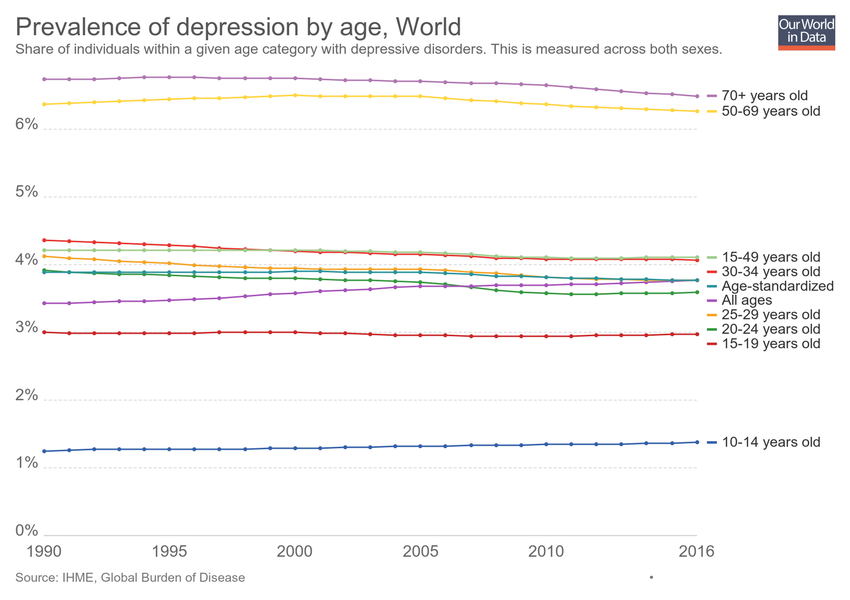
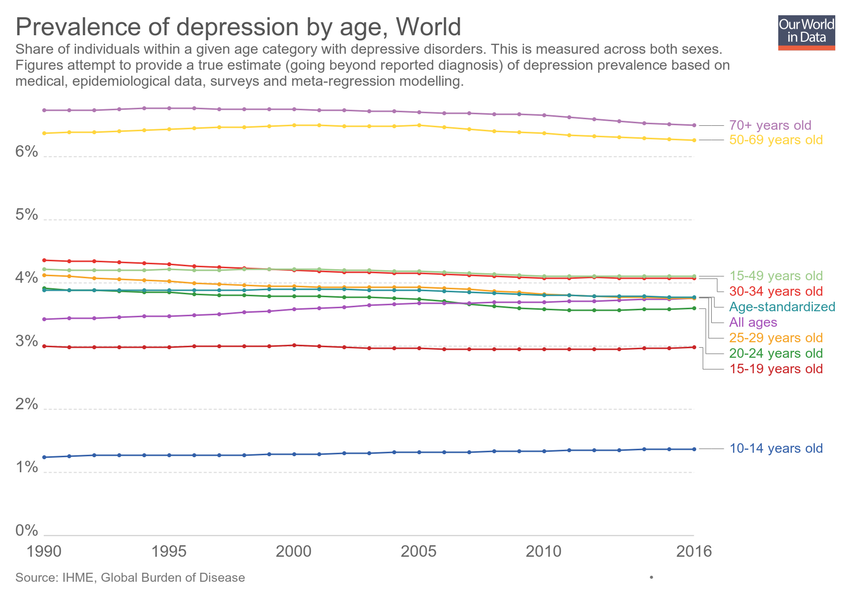
Updating chart rate-of-internationally-observed-elections

diff --git a/grapher/prevalence-of-depression-by-age.html b/grapher/prevalence-of-depression-by-age.html
@@ -1,4 +1,4 @@
-<!doctype html><html><head><meta name="viewport" content="width=device-width, initial-scale=1" /><title>Prevalence of depression by age - Our World in Data</title><meta name="description" content="Share of individuals within a given age category with depressive disorders. This is measured across both sexes." /><link rel="canonical" href="https://ourworldindata.org/grapher/prevalence-of-depression-by-age" /><meta property="fb:app_id" content="1149943818390250" /><meta property="og:url" content="https://ourworldindata.org/grapher/prevalence-of-depression-by-age" /><meta property="og:title" content="Prevalence of depression by age" /><meta property="og:description" content="Share of individuals within a given age category with depressive disorders. This is measured across both sexes." /><meta property="og:image" content="https://ourworldindata.org/grapher/exports/prevalence-of-depression-by-age.png?v=2" /><meta property="og:image:width" content="850" /><meta property="og:image:height" content="600" /><meta property="og:site_name" content="Our World in Data" /><meta name="twitter:card" content="summary_large_image" /><meta name="twitter:site" content="@OurWorldInData" /><meta name="twitter:creator" content="@OurWorldInData" /><meta name="twitter:title" content="Prevalence of depression by age" /><meta name="twitter:description" content="Share of individuals within a given age category with depressive disorders. This is measured across both sexes." /><meta name="twitter:image" content="https://ourworldindata.org/grapher/exports/prevalence-of-depression-by-age.png?v=2" /><style>
+<!doctype html><html><head><meta name="viewport" content="width=device-width, initial-scale=1" /><title>Prevalence of depression by age - Our World in Data</title><meta name="description" content="Share of individuals within a given age category with depressive disorders. This is measured across both sexes. Figures attempt to provide a true estimate (going beyond reported diagnosis) of depression prevalence based on medical, epidemiological data, surveys and meta-regression modelling." /><link rel="canonical" href="https://ourworldindata.org/grapher/prevalence-of-depression-by-age" /><meta property="fb:app_id" content="1149943818390250" /><meta property="og:url" content="https://ourworldindata.org/grapher/prevalence-of-depression-by-age" /><meta property="og:title" content="Prevalence of depression by age" /><meta property="og:description" content="Share of individuals within a given age category with depressive disorders. This is measured across both sexes. Figures attempt to provide a true estimate (going beyond reported diagnosis) of depression prevalence based on medical, epidemiological data, surveys and meta-regression modelling." /><meta property="og:image" content="https://ourworldindata.org/grapher/exports/prevalence-of-depression-by-age.png?v=3" /><meta property="og:image:width" content="850" /><meta property="og:image:height" content="600" /><meta property="og:site_name" content="Our World in Data" /><meta name="twitter:card" content="summary_large_image" /><meta name="twitter:site" content="@OurWorldInData" /><meta name="twitter:creator" content="@OurWorldInData" /><meta name="twitter:title" content="Prevalence of depression by age" /><meta name="twitter:description" content="Share of individuals within a given age category with depressive disorders. This is measured across both sexes. Figures attempt to provide a true estimate (going beyond reported diagnosis) of depression prevalence based on medical, epidemiological data, surveys and meta-regression modelling." /><meta name="twitter:image" content="https://ourworldindata.org/grapher/exports/prevalence-of-depression-by-age.png?v=3" /><style>
         html, body {
             height: 100%;
             margin: 0;
@@ -20,8 +20,8 @@
         }
     </style><noscript><style>
                     figure { display: none !important; }
-                </style></noscript><link rel="stylesheet" href="https://ourworldindata.org/grapher/assets/commons.bundle.ac09ff8f098f0c7be836.css" /><link rel="preload" href="/grapher/data/variables/84233+84215+84260+84296+84251+84224+84242+84287+84302+84278.json?v=2" as="fetch" crossorigin /></head><body class="singleChart"><figure data-grapher-src="/grapher/prevalence-of-depression-by-age"></figure><noscript id="fallback"><img src="/grapher/exports/prevalence-of-depression-by-age.svg" /><p>Interactive visualization requires JavaScript</p></noscript><script src="https://cdn.polyfill.io/v2/polyfill.min.js?features=es6,fetch"></script><script src="https://ourworldindata.org/grapher/assets/commons.bundle.ac09ff8f098f0c7be836.js"></script><script src="https://ourworldindata.org/grapher/assets/charts.bundle.dcf65b68eddaba4c6a58.js"></script><script>
-        var jsonConfig = {"id":2128,"map":{"projection":"World","colorSchemeLabels":[],"colorSchemeValues":[],"defaultProjection":"World","colorSchemeMinValue":0,"customNumericColors":[],"customCategoryColors":{},"customCategoryLabels":{},"customHiddenCategories":{}},"tab":"chart","slug":"prevalence-of-depression-by-age","type":"LineChart","title":"Prevalence of depression by age","xAxis":{"scaleType":"linear"},"yAxis":{"min":0,"scaleType":"linear"},"version":2,"subtitle":"Share of individuals within a given age category with depressive disorders. This is measured across both sexes.","hasMapTab":false,"stackMode":"absolute","dimensions":[{"display":{"name":"20-24 years old","unit":"%"},"property":"y","variableId":84233},{"display":{"name":"10-14 years old","unit":"%"},"property":"y","variableId":84215},{"display":{"name":"All ages","unit":"%"},"property":"y","variableId":84260},{"display":{"name":"70+ years old","unit":"%"},"property":"y","variableId":84296},{"display":{"name":"30-34 years old","unit":"%"},"property":"y","variableId":84251},{"display":{"name":"15-19 years old","unit":"%"},"property":"y","variableId":84224},{"display":{"name":"25-29 years old","unit":"%"},"property":"y","variableId":84242},{"display":{"name":"50-69 years old","unit":"%"},"property":"y","variableId":84287},{"display":{"name":"Age-standardized","unit":"%"},"property":"y","variableId":84302},{"display":{"name":"15-49 years old","unit":"%"},"property":"y","variableId":84278}],"sourceDesc":"IHME, Global Burden of Disease","hasChartTab":true,"isPublished":true,"selectedData":[{"index":0,"entityId":355},{"index":1,"entityId":355},{"index":2,"entityId":355},{"index":3,"entityId":355},{"index":4,"entityId":355},{"index":5,"entityId":355},{"index":6,"entityId":355},{"index":7,"entityId":355},{"index":8,"entityId":355},{"index":9,"entityId":355}],"addCountryMode":"change-country"};
+                </style></noscript><link rel="stylesheet" href="https://ourworldindata.org/grapher/assets/commons.bundle.ac09ff8f098f0c7be836.css" /><link rel="preload" href="/grapher/data/variables/84233+84215+84260+84296+84251+84224+84242+84287+84302+84278.json?v=3" as="fetch" crossorigin /></head><body class="singleChart"><figure data-grapher-src="/grapher/prevalence-of-depression-by-age"></figure><noscript id="fallback"><img src="/grapher/exports/prevalence-of-depression-by-age.svg" /><p>Interactive visualization requires JavaScript</p></noscript><script src="https://cdn.polyfill.io/v2/polyfill.min.js?features=es6,fetch"></script><script src="https://ourworldindata.org/grapher/assets/commons.bundle.ac09ff8f098f0c7be836.js"></script><script src="https://ourworldindata.org/grapher/assets/charts.bundle.dcf65b68eddaba4c6a58.js"></script><script>
+        var jsonConfig = {"id":2128,"map":{"projection":"World","colorSchemeLabels":[],"colorSchemeValues":[],"colorSchemeMinValue":0,"customNumericColors":[],"customCategoryColors":{},"customCategoryLabels":{},"customHiddenCategories":{}},"tab":"chart","slug":"prevalence-of-depression-by-age","type":"LineChart","title":"Prevalence of depression by age","xAxis":{"scaleType":"linear"},"yAxis":{"min":0,"scaleType":"linear"},"version":3,"subtitle":"Share of individuals within a given age category with depressive disorders. This is measured across both sexes. Figures attempt to provide a true estimate (going beyond reported diagnosis) of depression prevalence based on medical, epidemiological data, surveys and meta-regression modelling.","hasMapTab":false,"stackMode":"absolute","dimensions":[{"display":{"name":"20-24 years old","unit":"%"},"property":"y","variableId":84233},{"display":{"name":"10-14 years old","unit":"%"},"property":"y","variableId":84215},{"display":{"name":"All ages","unit":"%"},"property":"y","variableId":84260},{"display":{"name":"70+ years old","unit":"%"},"property":"y","variableId":84296},{"display":{"name":"30-34 years old","unit":"%"},"property":"y","variableId":84251},{"display":{"name":"15-19 years old","unit":"%"},"property":"y","variableId":84224},{"display":{"name":"25-29 years old","unit":"%"},"property":"y","variableId":84242},{"display":{"name":"50-69 years old","unit":"%"},"property":"y","variableId":84287},{"display":{"name":"Age-standardized","unit":"%"},"property":"y","variableId":84302},{"display":{"name":"15-49 years old","unit":"%"},"property":"y","variableId":84278}],"sourceDesc":"IHME, Global Burden of Disease","hasChartTab":true,"isPublished":true,"selectedData":[{"index":0,"entityId":355},{"index":1,"entityId":355},{"index":2,"entityId":355},{"index":3,"entityId":355},{"index":4,"entityId":355},{"index":5,"entityId":355},{"index":6,"entityId":355},{"index":7,"entityId":355},{"index":8,"entityId":355},{"index":9,"entityId":355}],"addCountryMode":"change-country"};
         var figure = document.getElementsByTagName("figure")[0];
         try {
             window.App = {};

diff --git a/grapher/rate-of-internationally-observed-elections.html b/grapher/rate-of-internationally-observed-elections.html
@@ -1,4 +1,4 @@
-<!doctype html><html><head><meta name="viewport" content="width=device-width, initial-scale=1" /><title>Internationally observed elections (%) - Our World in Data</title><meta name="description" content="Percentage of internationally observed elections and whether they were criticized by international observers. Figures cover 1,754 election events in 157 independent states, excluding those with population less than 250,000." /><link rel="canonical" href="https://ourworldindata.org/grapher/rate-of-internationally-observed-elections" /><meta property="fb:app_id" content="1149943818390250" /><meta property="og:url" content="https://ourworldindata.org/grapher/rate-of-internationally-observed-elections" /><meta property="og:title" content="Internationally observed elections (%)" /><meta property="og:description" content="Percentage of internationally observed elections and whether they were criticized by international observers. Figures cover 1,754 election events in 157 independent states, excluding those with population less than 250,000." /><meta property="og:image" content="https://ourworldindata.org/grapher/exports/rate-of-internationally-observed-elections.png?v=16" /><meta property="og:image:width" content="850" /><meta property="og:image:height" content="600" /><meta property="og:site_name" content="Our World in Data" /><meta name="twitter:card" content="summary_large_image" /><meta name="twitter:site" content="@OurWorldInData" /><meta name="twitter:creator" content="@OurWorldInData" /><meta name="twitter:title" content="Internationally observed elections (%)" /><meta name="twitter:description" content="Percentage of internationally observed elections and whether they were criticized by international observers. Figures cover 1,754 election events in 157 independent states, excluding those with population less than 250,000." /><meta name="twitter:image" content="https://ourworldindata.org/grapher/exports/rate-of-internationally-observed-elections.png?v=16" /><style>
+<!doctype html><html><head><meta name="viewport" content="width=device-width, initial-scale=1" /><title>Internationally observed elections by Western monitors - Our World in Data</title><meta name="description" content="Estimates correspond to the number of international elections that were either observed and criticized by Western monitors, observed and not criticized by Western monitors, or elections that were not observed by Western monitors. Criticism refers to allegations of significant vote-fraud." /><link rel="canonical" href="https://ourworldindata.org/grapher/rate-of-internationally-observed-elections" /><meta property="fb:app_id" content="1149943818390250" /><meta property="og:url" content="https://ourworldindata.org/grapher/rate-of-internationally-observed-elections" /><meta property="og:title" content="Internationally observed elections by Western monitors" /><meta property="og:description" content="Estimates correspond to the number of international elections that were either observed and criticized by Western monitors, observed and not criticized by Western monitors, or elections that were not observed by Western monitors. Criticism refers to allegations of significant vote-fraud." /><meta property="og:image" content="https://ourworldindata.org/grapher/exports/rate-of-internationally-observed-elections.png?v=9" /><meta property="og:image:width" content="850" /><meta property="og:image:height" content="600" /><meta property="og:site_name" content="Our World in Data" /><meta name="twitter:card" content="summary_large_image" /><meta name="twitter:site" content="@OurWorldInData" /><meta name="twitter:creator" content="@OurWorldInData" /><meta name="twitter:title" content="Internationally observed elections by Western monitors" /><meta name="twitter:description" content="Estimates correspond to the number of international elections that were either observed and criticized by Western monitors, observed and not criticized by Western monitors, or elections that were not observed by Western monitors. Criticism refers to allegations of significant vote-fraud." /><meta name="twitter:image" content="https://ourworldindata.org/grapher/exports/rate-of-internationally-observed-elections.png?v=9" /><style>
         html, body {
             height: 100%;
             margin: 0;
@@ -20,8 +20,8 @@
         }
     </style><noscript><style>
                     figure { display: none !important; }
-                </style></noscript><link rel="stylesheet" href="https://ourworldindata.org/grapher/assets/commons.bundle.ac09ff8f098f0c7be836.css" /><link rel="preload" href="/grapher/data/variables/97378+97379.json?v=16" as="fetch" crossorigin /></head><body class="singleChart"><figure data-grapher-src="/grapher/rate-of-internationally-observed-elections"></figure><noscript id="fallback"><img src="/grapher/exports/rate-of-internationally-observed-elections.svg" /><p>Interactive visualization requires JavaScript</p></noscript><script src="https://cdn.polyfill.io/v2/polyfill.min.js?features=es6,fetch"></script><script src="https://ourworldindata.org/grapher/assets/commons.bundle.ac09ff8f098f0c7be836.js"></script><script src="https://ourworldindata.org/grapher/assets/charts.bundle.dcf65b68eddaba4c6a58.js"></script><script>
-        var jsonConfig = {"id":2589,"map":{"projection":"World","colorSchemeLabels":[],"colorSchemeValues":[],"colorSchemeMinValue":0,"customNumericColors":[],"customCategoryColors":{},"customCategoryLabels":{},"customHiddenCategories":{}},"tab":"chart","slug":"rate-of-internationally-observed-elections","type":"StackedArea","title":"Internationally observed elections (%)","xAxis":{"scaleType":"linear"},"yAxis":{"max":80,"min":0,"scaleType":"linear"},"version":16,"subtitle":"Percentage of internationally observed elections and whether they were criticized by international observers. Figures cover 1,754 election events in 157 independent states, excluding those with population less than 250,000.","hasMapTab":false,"stackMode":"absolute","dimensions":[{"display":{"name":"Percent of elections observed and criticised","unit":"%"},"property":"y","variableId":97378},{"display":{"name":"Percent of elections observed and not criticised"},"property":"y","variableId":97379}],"hasChartTab":true,"isPublished":true,"selectedData":[{"index":0,"entityId":355},{"index":1,"entityId":355}],"addCountryMode":"change-country","baseColorScheme":"Plasma","hideRelativeToggle":true,"hideTitleAnnotation":true};
+                </style></noscript><link rel="stylesheet" href="https://ourworldindata.org/grapher/assets/commons.bundle.ac09ff8f098f0c7be836.css" /><link rel="preload" href="/grapher/data/variables/97399+97400+97401.json?v=9" as="fetch" crossorigin /></head><body class="singleChart"><figure data-grapher-src="/grapher/rate-of-internationally-observed-elections"></figure><noscript id="fallback"><img src="/grapher/exports/rate-of-internationally-observed-elections.svg" /><p>Interactive visualization requires JavaScript</p></noscript><script src="https://cdn.polyfill.io/v2/polyfill.min.js?features=es6,fetch"></script><script src="https://ourworldindata.org/grapher/assets/commons.bundle.ac09ff8f098f0c7be836.js"></script><script src="https://ourworldindata.org/grapher/assets/charts.bundle.dcf65b68eddaba4c6a58.js"></script><script>
+        var jsonConfig = {"id":2598,"map":{"projection":"World","colorSchemeLabels":[],"colorSchemeValues":[],"customNumericColors":[],"customCategoryColors":{},"customCategoryLabels":{},"customHiddenCategories":{}},"tab":"chart","note":"Includes 2435 election events in 162 countries","slug":"rate-of-internationally-observed-elections","type":"StackedArea","title":"Internationally observed elections by Western monitors","xAxis":{"scaleType":"linear"},"yAxis":{"min":0,"scaleType":"linear"},"version":9,"subtitle":"Estimates correspond to the number of international elections that were either observed and criticized by Western monitors, observed and not criticized by Western monitors, or elections that were not observed by Western monitors. Criticism refers to allegations of significant vote-fraud.","hasMapTab":false,"stackMode":"relative","dimensions":[{"display":{"name":"Elections not observed","unit":"elections","shortUnit":""},"property":"y","variableId":97399},{"display":{"name":"Elections observed and criticized"},"property":"y","variableId":97400},{"display":{"name":"Elections observed and not critcized"},"property":"y","variableId":97401}],"hasChartTab":true,"isPublished":true,"selectedData":[{"index":0,"entityId":355},{"index":2,"entityId":355},{"index":1,"entityId":355}],"addCountryMode":"change-country","baseColorScheme":"owid-distinct","invertColorScheme":true,"hideTitleAnnotation":true};
         var figure = document.getElementsByTagName("figure")[0];
         try {
             window.App = {};

diff --git a/grapher/share-with-depression.html b/grapher/share-with-depression.html
@@ -1,4 +1,4 @@
-<!doctype html><html><head><meta name="viewport" content="width=device-width, initial-scale=1" /><title>Share of the population with depression - Our World in Data</title><meta name="description" content="Prevalence of depressive disorders in a given population. This is measured as the age-standardized prevalence, which assumes a constant age structure to compare between countries and through time." /><link rel="canonical" href="https://ourworldindata.org/grapher/share-with-depression" /><meta property="fb:app_id" content="1149943818390250" /><meta property="og:url" content="https://ourworldindata.org/grapher/share-with-depression" /><meta property="og:title" content="Share of the population with depression" /><meta property="og:description" content="Prevalence of depressive disorders in a given population. This is measured as the age-standardized prevalence, which assumes a constant age structure to compare between countries and through time." /><meta property="og:image" content="https://ourworldindata.org/grapher/exports/share-with-depression.png?v=3" /><meta property="og:image:width" content="850" /><meta property="og:image:height" content="600" /><meta property="og:site_name" content="Our World in Data" /><meta name="twitter:card" content="summary_large_image" /><meta name="twitter:site" content="@OurWorldInData" /><meta name="twitter:creator" content="@OurWorldInData" /><meta name="twitter:title" content="Share of the population with depression" /><meta name="twitter:description" content="Prevalence of depressive disorders in a given population. This is measured as the age-standardized prevalence, which assumes a constant age structure to compare between countries and through time." /><meta name="twitter:image" content="https://ourworldindata.org/grapher/exports/share-with-depression.png?v=3" /><style>
+<!doctype html><html><head><meta name="viewport" content="width=device-width, initial-scale=1" /><title>Share of the population with depression - Our World in Data</title><meta name="description" content="Prevalence of depressive disorders in a given population. This is measured as the age-standardized prevalence, which assumes a constant age structure to compare between countries and through time. Figures attempt to provide a true estimate (going beyond reported diagnosis) of depression prevalence based on medical, epidemiological data, surveys and meta-regression modelling." /><link rel="canonical" href="https://ourworldindata.org/grapher/share-with-depression" /><meta property="fb:app_id" content="1149943818390250" /><meta property="og:url" content="https://ourworldindata.org/grapher/share-with-depression" /><meta property="og:title" content="Share of the population with depression" /><meta property="og:description" content="Prevalence of depressive disorders in a given population. This is measured as the age-standardized prevalence, which assumes a constant age structure to compare between countries and through time. Figures attempt to provide a true estimate (going beyond reported diagnosis) of depression prevalence based on medical, epidemiological data, surveys and meta-regression modelling." /><meta property="og:image" content="https://ourworldindata.org/grapher/exports/share-with-depression.png?v=4" /><meta property="og:image:width" content="850" /><meta property="og:image:height" content="600" /><meta property="og:site_name" content="Our World in Data" /><meta name="twitter:card" content="summary_large_image" /><meta name="twitter:site" content="@OurWorldInData" /><meta name="twitter:creator" content="@OurWorldInData" /><meta name="twitter:title" content="Share of the population with depression" /><meta name="twitter:description" content="Prevalence of depressive disorders in a given population. This is measured as the age-standardized prevalence, which assumes a constant age structure to compare between countries and through time. Figures attempt to provide a true estimate (going beyond reported diagnosis) of depression prevalence based on medical, epidemiological data, surveys and meta-regression modelling." /><meta name="twitter:image" content="https://ourworldindata.org/grapher/exports/share-with-depression.png?v=4" /><style>
         html, body {
             height: 100%;
             margin: 0;
@@ -20,8 +20,8 @@
         }
     </style><noscript><style>
                     figure { display: none !important; }
-                </style></noscript><link rel="stylesheet" href="https://ourworldindata.org/grapher/assets/commons.bundle.ac09ff8f098f0c7be836.css" /><link rel="preload" href="/grapher/data/variables/71287.json?v=3" as="fetch" crossorigin /></head><body class="singleChart"><figure data-grapher-src="/grapher/share-with-depression"></figure><noscript id="fallback"><img src="/grapher/exports/share-with-depression.svg" /><p>Interactive visualization requires JavaScript</p></noscript><script src="https://cdn.polyfill.io/v2/polyfill.min.js?features=es6,fetch"></script><script src="https://ourworldindata.org/grapher/assets/commons.bundle.ac09ff8f098f0c7be836.js"></script><script src="https://ourworldindata.org/grapher/assets/charts.bundle.dcf65b68eddaba4c6a58.js"></script><script>
-        var jsonConfig = {"id":2123,"map":{"projection":"World","targetYear":2016,"variableId":71287,"baseColorScheme":"YlGnBu","isManualBuckets":true,"colorSchemeLabels":[],"colorSchemeValues":[2,2.5,3,3.5,4,4.5,5,5.5,6,6.5],"defaultProjection":"World","colorSchemeMinValue":2,"customNumericColors":[null,null,null,null,null],"customCategoryColors":{},"customCategoryLabels":{},"customHiddenCategories":{}},"tab":"map","slug":"share-with-depression","type":"LineChart","title":"Share of the population with depression","xAxis":{"scaleType":"linear"},"yAxis":{"min":0,"scaleType":"linear"},"version":3,"subtitle":"Prevalence of depressive disorders in a given population. This is measured as the age-standardized prevalence, which assumes a constant age structure to compare between countries and through time.","hasMapTab":true,"stackMode":"absolute","dimensions":[{"display":{"unit":"%"},"property":"y","variableId":71287}],"sourceDesc":"IHME, Global Burden of Disease","hasChartTab":true,"isPublished":true,"selectedData":[{"index":0,"entityId":13},{"index":0,"entityId":1},{"index":0,"entityId":171},{"index":0,"entityId":10},{"index":0,"entityId":12},{"index":0,"entityId":90},{"index":0,"entityId":150}],"addCountryMode":"add-country"};
+                </style></noscript><link rel="stylesheet" href="https://ourworldindata.org/grapher/assets/commons.bundle.ac09ff8f098f0c7be836.css" /><link rel="preload" href="/grapher/data/variables/71287.json?v=4" as="fetch" crossorigin /></head><body class="singleChart"><figure data-grapher-src="/grapher/share-with-depression"></figure><noscript id="fallback"><img src="/grapher/exports/share-with-depression.svg" /><p>Interactive visualization requires JavaScript</p></noscript><script src="https://cdn.polyfill.io/v2/polyfill.min.js?features=es6,fetch"></script><script src="https://ourworldindata.org/grapher/assets/commons.bundle.ac09ff8f098f0c7be836.js"></script><script src="https://ourworldindata.org/grapher/assets/charts.bundle.dcf65b68eddaba4c6a58.js"></script><script>
+        var jsonConfig = {"id":2123,"map":{"projection":"World","targetYear":2016,"variableId":71287,"baseColorScheme":"YlGnBu","isManualBuckets":true,"colorSchemeLabels":[],"colorSchemeValues":[2,2.5,3,3.5,4,4.5,5,5.5,6,6.5],"colorSchemeMinValue":2,"customNumericColors":[null,null,null,null,null],"customCategoryColors":{},"customCategoryLabels":{},"customHiddenCategories":{}},"tab":"map","slug":"share-with-depression","type":"LineChart","title":"Share of the population with depression","xAxis":{"scaleType":"linear"},"yAxis":{"min":0,"scaleType":"linear"},"version":4,"subtitle":"Prevalence of depressive disorders in a given population. This is measured as the age-standardized prevalence, which assumes a constant age structure to compare between countries and through time. Figures attempt to provide a true estimate (going beyond reported diagnosis) of depression prevalence based on medical, epidemiological data, surveys and meta-regression modelling.","hasMapTab":true,"stackMode":"absolute","dimensions":[{"display":{"unit":"%"},"property":"y","variableId":71287}],"sourceDesc":"IHME, Global Burden of Disease","hasChartTab":true,"isPublished":true,"selectedData":[{"index":0,"entityId":13},{"index":0,"entityId":1},{"index":0,"entityId":171},{"index":0,"entityId":10},{"index":0,"entityId":12},{"index":0,"entityId":90},{"index":0,"entityId":150}],"addCountryMode":"add-country"};
         var figure = document.getElementsByTagName("figure")[0];
         try {
             window.App = {};
